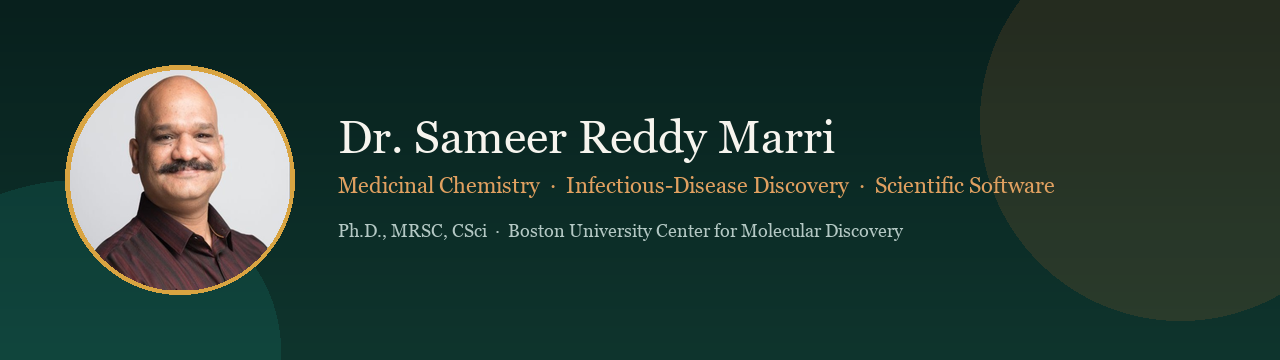
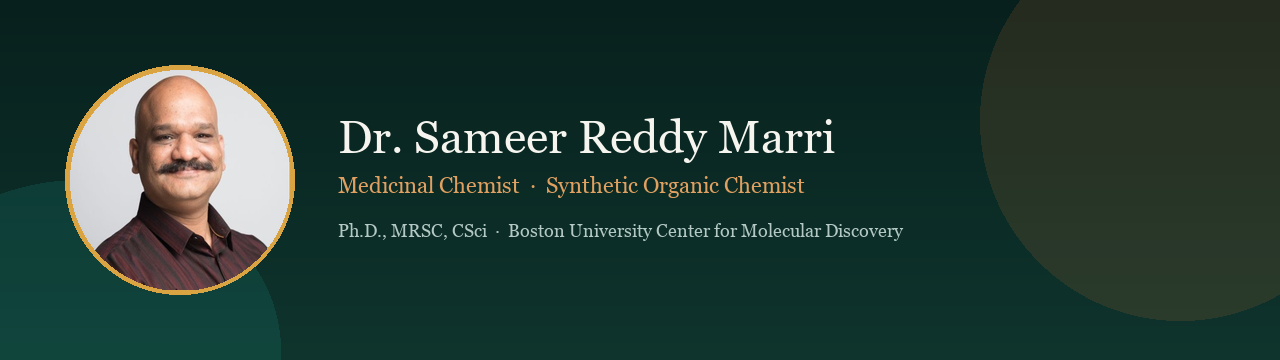
Humanize profile: synthetic organic chemist, AI enthusiast framing

Changed region(s): [[0.4062, 0.4889, 0.8125, 0.55]]

diff --git a/assets/make_header.py b/assets/make_header.py
@@ -1,0 +1,63 @@
+from pathlib import Path
+
+from PIL import Image, ImageDraw, ImageFont
+
+assets = Path(__file__).resolve().parent
+head = Image.open(assets / "headshot.jpg").convert("RGBA")
+
+W, H = 1280, 360
+img = Image.new("RGBA", (W, H), (8, 32, 29, 255))
+draw = ImageDraw.Draw(img)
+for y in range(H):
+    t = y / H
+    r = int(8 + (15 - 8) * t)
+    g = int(32 + (92 - 32) * t * 0.35)
+    b = int(29 + (84 - 29) * t * 0.3)
+    draw.line([(0, y), (W, y)], fill=(r, g, b, 255))
+
+overlay = Image.new("RGBA", (W, H), (0, 0, 0, 0))
+od = ImageDraw.Draw(overlay)
+od.ellipse([980, -80, 1380, 320], fill=(192, 106, 44, 40))
+od.ellipse([-120, 180, 280, 520], fill=(22, 137, 124, 50))
+img = Image.alpha_composite(img, overlay)
+draw = ImageDraw.Draw(img)
+
+size = 220
+head = head.resize((size, size), Image.Resampling.LANCZOS)
+mask = Image.new("L", (size, size), 0)
+ImageDraw.Draw(mask).ellipse([0, 0, size, size], fill=255)
+ring = Image.new("RGBA", (size + 10, size + 10), (0, 0, 0, 0))
+ImageDraw.Draw(ring).ellipse([0, 0, size + 9, size + 9], fill=(217, 164, 65, 255))
+hx, hy = 70, (H - size) // 2
+img.paste(ring, (hx - 5, hy - 5), ring)
+img.paste(head, (hx, hy), mask)
+
+candidates = [
+    r"C:\Windows\Fonts\georgia.ttf",
+    r"C:\Windows\Fonts\segoeui.ttf",
+    r"C:\Windows\Fonts\arial.ttf",
+]
+font_path = next((p for p in candidates if Path(p).exists()), None)
+title = ImageFont.truetype(font_path, 46) if font_path else ImageFont.load_default()
+sub = ImageFont.truetype(font_path, 22) if font_path else ImageFont.load_default()
+small = ImageFont.truetype(font_path, 18) if font_path else ImageFont.load_default()
+
+tx = hx + size + 48
+ty = H // 2 - 70
+draw.text((tx, ty), "Dr. Sameer Reddy Marri", fill=(246, 244, 238, 255), font=title)
+draw.text(
+    (tx, ty + 62),
+    "Medicinal Chemist  ·  Synthetic Organic Chemist",
+    fill=(224, 160, 96, 255),
+    font=sub,
+)
+draw.text(
+    (tx, ty + 110),
+    "Ph.D., MRSC, CSci  ·  Boston University Center for Molecular Discovery",
+    fill=(180, 200, 196, 255),
+    font=small,
+)
+
+out = assets / "header.png"
+img.convert("RGB").save(out, "PNG", optimize=True)
+print("wrote", out, out.stat().st_size)

diff --git a/README.md b/README.md
@@ -1,8 +1,8 @@
 <div align="center">
 
-![Dr. Sameer Reddy Marri — Medicinal Chemistry & Scientific Software](assets/header.png)
+![Dr. Sameer Reddy Marri — Medicinal & Synthetic Organic Chemist](assets/header.png)
 
-[![Typing SVG](https://readme-typing-svg.demolab.com?font=JetBrains+Mono&weight=600&size=18&duration=2800&pause=900&color=16897C&center=true&vCenter=true&width=900&lines=Lead+Medicinal+Chemist+%40+Boston+University+CMD;Infectious-Disease+Drug+Discovery+%7C+Probe+Design;Building+tools+chemists+and+scientists+actually+use)](https://git.io/typing-svg)
+[![Typing SVG](https://readme-typing-svg.demolab.com?font=JetBrains+Mono&weight=600&size=18&duration=2800&pause=900&color=16897C&center=true&vCenter=true&width=900&lines=Medicinal+%26+Synthetic+Organic+Chemist;Postdoc+%40+Boston+University+CMD;AI+enthusiast+building+tools+with+AI-assisted+coding)](https://git.io/typing-svg)
 
 [![BU CMD](https://img.shields.io/badge/Boston_University-CMD-CC0000?style=for-the-badge&logo=academia&logoColor=white)](https://www.bu.edu/cmd/about-the-bu-cmd/personnel/staff/)
 [![ORCID](https://img.shields.io/badge/ORCID-0000--0001--6954--0652-A6CE39?style=for-the-badge&logo=orcid&logoColor=white)](https://orcid.org/0000-0001-6954-0652)
@@ -20,38 +20,36 @@
 
 ## Hello, I’m Sameer 👋
 
-I’m a **Lead Medicinal Chemist / Postdoctoral Research Associate** at the [Boston University Center for Molecular Discovery](https://www.bu.edu/cmd/), working where synthetic chemistry, chemical biology, and scientific software meet.
+I’m a **medicinal and synthetic organic chemist** — currently a Postdoctoral Research Associate at the [Boston University Center for Molecular Discovery](https://www.bu.edu/cmd/).
 
-Synthetic and medicinal chemist with **8+ years** across hit-to-lead, multi-step synthesis, scale-up, and chemical biology — five of them in pharmaceutical CRO discovery. I design routes, build photoaffinity probes for target ID, and rescue chemistry that has stalled. My current programs span *Leishmania*, orthopoxvirus, and fungal Hsp90, alongside fluorescent / PAL probe design.
+I’ve spent **8+ years** at the bench: hit-to-lead work, multi-step synthesis, scale-up, and chemical biology. Five of those years were in pharmaceutical CRO discovery, where I learned to design routes, keep campaigns moving, and fix chemistry when it stalls.
 
-Alongside the bench, I build open tools chemists can actually run — privacy-first document pipelines, chemical format converters, and agentic molecular visualization.
+I’m also an **AI enthusiast**. Outside the lab, I’ve been teaching myself AI-assisted programming and using it to build small tools that make chemists’ day-to-day work easier — things like document cleanup, chemical format conversion, and molecular visualization helpers.
 
-> **Research north star:** turn stalled chemistry and messy scientific data into molecules, insights, and software that move programs forward.
+> I care about chemistry that ships — and tools that save someone an afternoon.
 
-### What I’m exploring now
+### What I’m into right now
 
-- Infectious-disease hit-to-lead and probe-enabled target identification
-- Route design, protecting-group strategy, and multigram delivery under program pressure
-- Privacy-first scientific document → Markdown pipelines for LLM / RAG workflows
-- Cheminformatics utilities (CDXML / SDF / CSV) and dual-mode desktop tools
-- Agentic interfaces for structure visualization and PyMOL-centered discovery workflows
+- Medicinal and synthetic organic chemistry in discovery settings
+- Route design, protecting-group strategy, and getting molecules to scale
+- Learning by building: AI-assisted coding for practical lab-adjacent tools
+- Offline document → Markdown pipelines for reading papers with LLMs
+- Simple cheminformatics utilities and PyMOL-centered workflows
 
-**Focus tags:** Hit-to-Lead · Multi-step Synthesis · Route Scouting · Probe Design · Scale-up · Chemical Biology · AI-Assisted Programming
+**Focus:** Hit-to-Lead · Multi-step Synthesis · Route Scouting · Scale-up · Chemical Biology · AI-Assisted Programming
 
 ---
 
-## Flagship open-source work
+## Things I’ve been building
 
 <table>
 <tr>
 <td width="50%" valign="top">
 
 ### 🧬 [PyMolAI](https://github.com/sameer24688-jpg/PyMolAI)
-**Agentic interface for PyMOL workflows**
+**Chat with PyMOL**
 
-AI assistant layer on open-source PyMOL — run molecular visualization, analysis, and figure workflows through natural language and tools scientists already trust.
-
-**Design goal:** agentic molecular visualization for discovery chemists.
+An AI layer on open-source PyMOL so you can drive visualization and analysis in plain language, without fighting the command line every time.
 
 [![Repo](https://img.shields.io/badge/GitHub-PyMolAI-0f5c54?style=flat-square&logo=github)](https://github.com/sameer24688-jpg/PyMolAI)
 [![Site](https://img.shields.io/badge/Website-pymolai.com-16897c?style=flat-square)](https://pymolai.com)
@@ -60,11 +58,9 @@ AI assistant layer on open-source PyMOL — run molecular visualization, analysi
 <td width="50%" valign="top">
 
 ### 📄 [MDfier](https://github.com/sameer24688-jpg/MDfier)
-**Privacy-first document → Markdown**
+**Papers → clean Markdown, offline**
 
-100% offline desktop app that turns PDF, DOCX, PPTX, and images into clean, LLM-ready Markdown (and back). Layout-aware parsing, GFM tables, local RapidOCR — no APIs, no network leaks.
-
-**Design goal:** local scientific document intelligence for RAG / LLM prep.
+A desktop app that turns PDFs, Word docs, decks, and images into LLM-ready Markdown — locally, with no cloud upload. Handy when you want RAG-friendly text without sending files anywhere.
 
 [![Repo](https://img.shields.io/badge/GitHub-MDfier-0f5c54?style=flat-square&logo=github)](https://github.com/sameer24688-jpg/MDfier)
 ![Stars](https://img.shields.io/github/stars/sameer24688-jpg/MDfier?style=flat-square)
@@ -75,11 +71,9 @@ AI assistant layer on open-source PyMOL — run molecular visualization, analysi
 <td width="50%" valign="top">
 
 ### ⚗ [Convertia](https://github.com/sameer24688-jpg/Convertia)
-**Chemical format conversion, done locally**
+**CDXML / SDF / CSV without the headache**
 
-Standalone Windows utility for CDXML ↔ SDF ↔ CSV conversions. Dual-mode binary: GUI on double-click, high-performance CLI when you need throughput. Powered by RDKit and spatial proximity heuristics.
-
-**Design goal:** one-click chemical format interoperability for medchem teams.
+A small Windows utility (GUI or CLI) for converting common chemical formats. Built with RDKit for days when ChemDraw and spreadsheets don’t want to talk to each other.
 
 [![Repo](https://img.shields.io/badge/GitHub-Convertia-0f5c54?style=flat-square&logo=github)](https://github.com/sameer24688-jpg/Convertia)
 
@@ -87,9 +81,9 @@ Standalone Windows utility for CDXML ↔ SDF ↔ CSV conversions. Dual-mode bina
 <td width="50%" valign="top">
 
 ### 🌐 [Research portfolio](https://github.com/sameer24688-jpg/SameerReddyM.github.io)
-**Bench background + software in one place**
+**A bit more about the path**
 
-Publications, experience, and tools spanning infectious-disease medicinal chemistry and scientific software engineering — from Hyderabad discovery benches to Boston University CMD.
+Background, publications, and how I got from organic chemistry benches in Hyderabad to discovery chemistry at Boston University.
 
 [![Repo](https://img.shields.io/badge/GitHub-Portfolio-7d3a54?style=flat-square&logo=github)](https://github.com/sameer24688-jpg/SameerReddyM.github.io)
 
@@ -98,46 +92,41 @@ Publications, experience, and tools spanning infectious-disease medicinal chemis
 </table>
 
 <p align="center">
-  <a href="https://github.com/sameer24688-jpg?tab=repositories"><strong>Explore all repositories →</strong></a>
+  <a href="https://github.com/sameer24688-jpg?tab=repositories"><strong>See all repositories →</strong></a>
 </p>
 
 ---
 
-## Bench-to-software pipeline
+## How I like to work
 
 ```mermaid
 flowchart LR
-    A[Biological / chemical question] --> B[Route & probe design]
-    B --> C[Synthesis & scale-up]
-    C --> D[Assay-ready molecules]
-    D --> E[Structure / data analysis]
-    E --> F[Reproducible software tools]
-    F --> G[Testable discovery hypothesis]
-    G -. experimental evidence .-> A
+    A[Chemistry question] --> B[Design the route]
+    B --> C[Make the molecules]
+    C --> D[Learn from the data]
+    D --> E[Build a small tool if it helps]
+    E --> F[Back to the next experiment]
 ```
 
 ---
 
-## Technical ecosystem
+## Toolkit
 
-**Chemistry & discovery**
+**Chemistry**
 
 ![Medicinal Chemistry](https://img.shields.io/badge/Medicinal_Chemistry-0f5c54?style=for-the-badge)
-![Organic Synthesis](https://img.shields.io/badge/Organic_Synthesis-16897c?style=for-the-badge)
+![Synthetic Organic](https://img.shields.io/badge/Synthetic_Organic-16897c?style=for-the-badge)
 ![Chemical Biology](https://img.shields.io/badge/Chemical_Biology-7d3a54?style=for-the-badge)
-![Photoaffinity Probes](https://img.shields.io/badge/Photoaffinity_Probes-c06a2c?style=for-the-badge)
-![Infectious Disease](https://img.shields.io/badge/Infectious_Disease-CC0000?style=for-the-badge)
 ![Scale-up](https://img.shields.io/badge/Scale--up-d9a441?style=for-the-badge)
 
-**Scientific computing & software**
+**Coding (still learning, building in public)**
 
 ![Python](https://img.shields.io/badge/Python-3776AB?style=for-the-badge&logo=python&logoColor=white)
-![RDKit](https://img.shields.io/badge/RDKit-Molecular_Informatics-0F766E?style=for-the-badge)
-![PyQt](https://img.shields.io/badge/PyQt-Desktop_UI-41CD52?style=for-the-badge&logo=qt&logoColor=white)
-![PyMOL](https://img.shields.io/badge/PyMOL-Visualization-1D4ED8?style=for-the-badge)
-![OCR / RAG](https://img.shields.io/badge/OCR_%2F_RAG_Pipelines-0891B2?style=for-the-badge)
+![RDKit](https://img.shields.io/badge/RDKit-0F766E?style=for-the-badge)
+![PyQt](https://img.shields.io/badge/PyQt-41CD52?style=for-the-badge&logo=qt&logoColor=white)
+![PyMOL](https://img.shields.io/badge/PyMOL-1D4ED8?style=for-the-badge)
+![AI-assisted coding](https://img.shields.io/badge/AI--assisted_coding-0891B2?style=for-the-badge)
 ![Git](https://img.shields.io/badge/Git-F05032?style=for-the-badge&logo=git&logoColor=white)
-![Windows](https://img.shields.io/badge/Windows-Desktop_Apps-0078D6?style=for-the-badge&logo=windows&logoColor=white)
 
 ---
 
@@ -156,26 +145,26 @@ flowchart LR
 
 ---
 
-## Experience snapshot
+## A quick look at the journey
 
-| Role | Org | Focus |
+| Role | Org | Notes |
 |---|---|---|
-| Postdoctoral Research Associate (2023–Present) | Boston University CMD | Lead synthesis — Leishmania, orthopoxvirus, fungal Hsp90; PAL / fluorescent probes; multigram delivery |
-| Research Scientist — Discovery & Scale-Up (2020–2023) | Sai Life Sciences | 8–13 step routes; mg→multigram; Outstanding Contributor Award (2021) |
-| Research Scientist — Discovery Chemistry (2018–2020) | Piramal Discovery Solutions | Oncology, CNS, anti-infectives; route optimisation |
+| Postdoctoral Research Associate (2023–Present) | Boston University CMD | Discovery synthesis and scale-up in infectious-disease medicinal chemistry |
+| Research Scientist — Discovery & Scale-Up (2020–2023) | Sai Life Sciences | Long routes, mg→multigram delivery; Outstanding Contributor Award (2021) |
+| Research Scientist — Discovery Chemistry (2018–2020) | Piramal Discovery Solutions | Oncology, CNS, and anti-infective programs; route optimization |
 
 **Education:** Ph.D. Chemistry (CUG) · M.Phil. Chemistry (CUG) · M.Sc. Organic Chemistry (Osmania) · B.Sc. (Osmania)
 
 ---
 
-## Selected scholarship & impact
+## A few things I’m proud of
 
-- **17 publications · 295+ citations** spanning medicinal chemistry, synthesis, and discovery science
-- Postdoctoral leadership across **Leishmania, orthopoxvirus, and fungal Hsp90** programs at BU CMD
-- Prior CRO discovery experience at **Sai Life Sciences** and **Piramal Discovery Solutions**
-- **MRSC** (790237) and **Chartered Scientist (CSci)**, Science Council UK
-- Peer reviewer — 14 reviews across 10 journals; Schrödinger certifications ×2
-- Builder of practical open-source tools for chemists: document intelligence, format conversion, and molecular visualization AI
+- **17 publications · 295+ citations** in medicinal chemistry and synthesis
+- Discovery and scale-up experience across CRO and academic settings
+- Time at **Sai Life Sciences** and **Piramal Discovery Solutions** before BU
+- **MRSC** and **Chartered Scientist (CSci)**, Science Council UK
+- Peer reviewing for journals, plus a couple of Schrödinger certifications
+- Teaching myself to ship useful chemist tools with AI-assisted programming
 
 <p align="center">
 
@@ -187,14 +176,14 @@ flowchart LR
 
 ---
 
-## Let’s build something consequential
+## Happy to connect
 
-I’m open to collaborations and roles spanning:
+Always glad to talk about:
 
-- Infectious-disease medicinal / synthetic / process chemistry
-- Probe design and hit-to-lead strategy for stalled routes
-- Scientific software for chemists (cheminformatics, offline document tools, visualization agents)
-- Bridging wet-lab discovery with reproducible computational workflows
+- Medicinal / synthetic / process chemistry opportunities
+- Hit-to-lead and scale-up problems that need a stubborn chemist
+- Building small, useful tools for chemists with AI-assisted coding
+- Mixing wet-lab work with practical computation
 
 <p align="center">
 
@@ -204,4 +193,4 @@ I’m open to collaborations and roles spanning:
 
 </p>
 
-<p align="center"><em>Better molecules move faster when the chemistry, evidence, and tools are open.</em></p>
+<p align="center"><em>Good chemistry, honest tools, and a little curiosity go a long way.</em></p>
